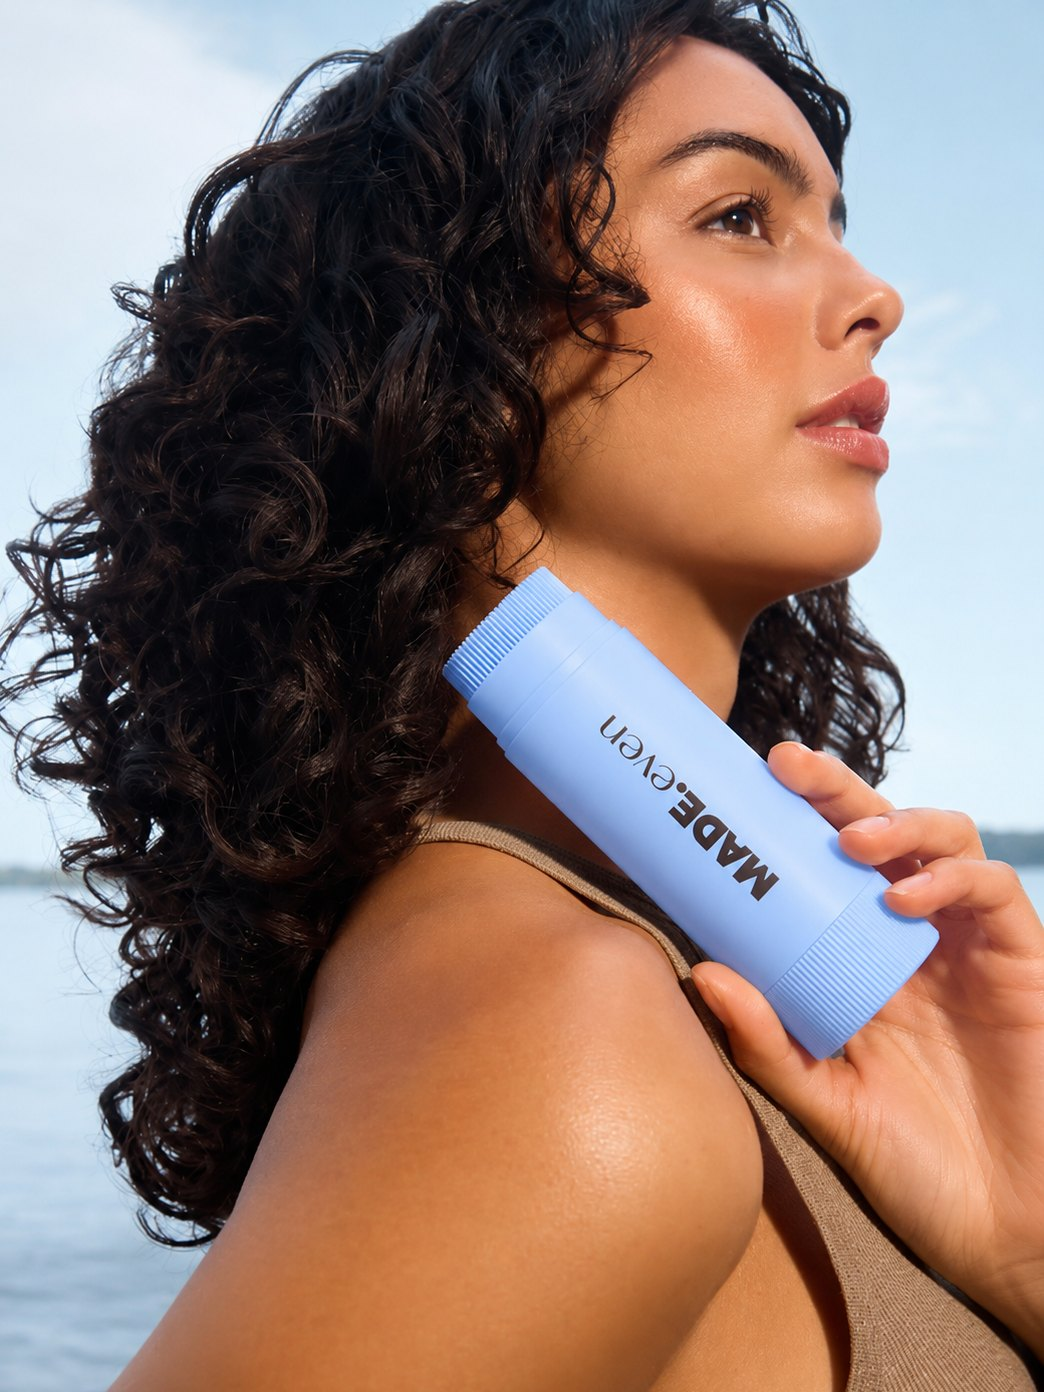
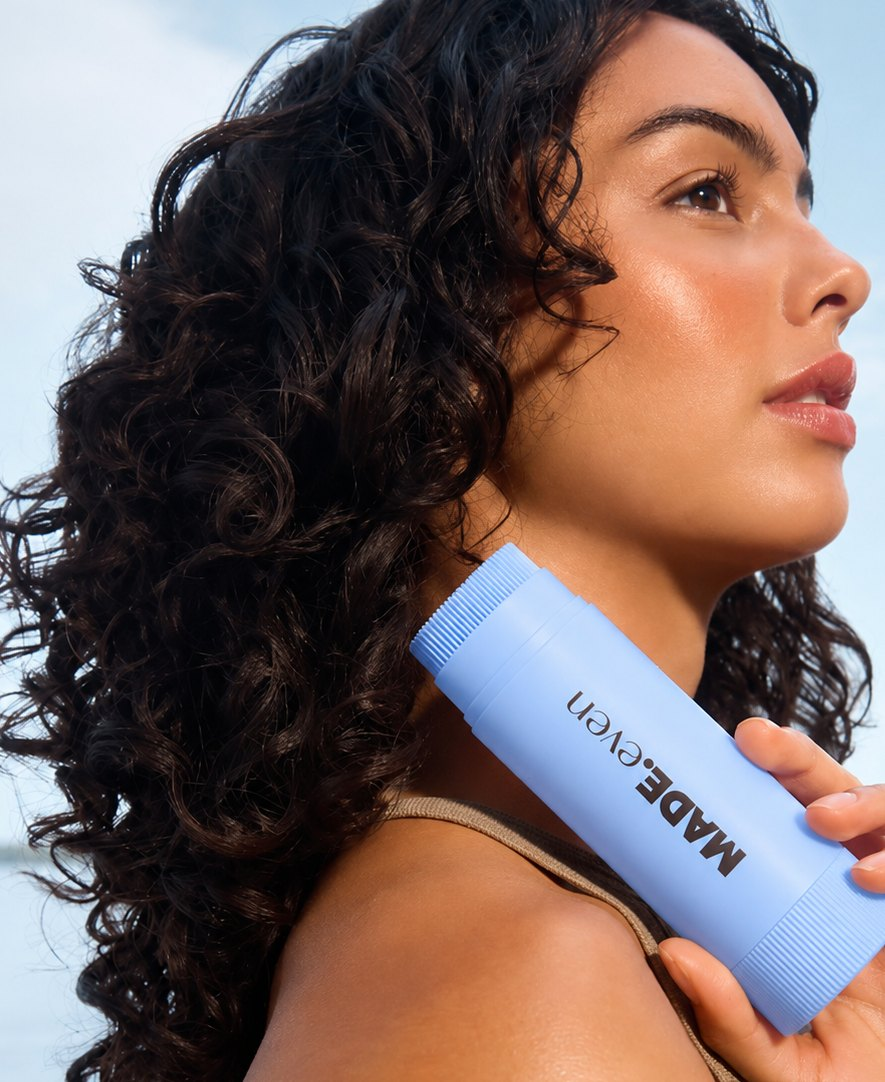
Match the shop product blocks to the design
Crops now come from the PDF's image placement rather than a guessed focus
point, and each column keeps the design's own aspect — they differ (0.74,
0.80, 0.82), so a uniform 3:4 was wrong. Type and spacing measured off the
rendered page: heading up, body down, thicker pill border, wider gaps.

diff --git a/src/app/shop/page.tsx b/src/app/shop/page.tsx
@@ -7,7 +7,9 @@ const items = [
     title: "Flyaway Balm Stick",
     accent: "bg-pink",
     // The design shrinks this one's body copy to fit the longer blurb.
-    body: "text-[1.3vw]",
+    body: "text-[1.16vw]",
+    aspect: "aspect-[0.738]",
+    size: [843, 1143],
     copy: [
       "Effortless hair, wherever you go. MADE.SLICK is a lightweight flyaway balm designed for quick, easy touch-ups on the go. Smooth down frizz, tame flyaways, and refine your look without the stiffness or residue. The compact stick makes styling simple just swipe, smooth, and go. Perfect for sleek buns, polished ponytails, clean-girl looks, or refreshing your style throughout the day.",
     ],
@@ -18,7 +20,9 @@ const items = [
     name: "fresh",
     title: "Dry Shampoo",
     accent: "bg-butter",
-    body: "text-[1.45vw]",
+    body: "text-[1.29vw]",
+    aspect: "aspect-[0.803]",
+    size: [976, 1216],
     reverse: true,
     copy: [
       "Fresh hair, no wash day required. MADE.FRESH is a lightweight dry shampoo designed to instantly refresh your roots, absorb excess oil, and bring life back to your hair between washes.",
@@ -31,7 +35,9 @@ const items = [
     name: "even",
     title: "Grey Coverage Stick",
     accent: "bg-peri",
-    body: "text-[1.45vw]",
+    body: "text-[1.29vw]",
+    aspect: "aspect-[0.818]",
+    size: [885, 1082],
     copy: [
       "A quick touch-up for those in-between moments.",
       "MADE.EVEN is a convenient grey coverage stick designed to seamlessly blend into your hair, helping disguise visible greys and grown-out roots in seconds.",
@@ -78,15 +84,15 @@ export default function Shop() {
             }`}
           >
             <div>
-              <h2 className="text-[9vw] leading-none md:text-[4.4vw]">
+              <h2 className="text-[9vw] leading-none md:text-[4.9vw]">
                 <span className="font-display">MADE.</span>
                 <span className="font-script">{item.name}</span>
               </h2>
-              <p className="mt-[1.2vw] font-body font-bold text-xl md:text-[2.15vw]">
+              <p className="mt-[1.5vw] font-body text-xl font-bold md:text-[2.15vw]">
                 {item.title}
               </p>
               <div
-                className={`mt-[1.8vw] space-y-[0.9em] font-body leading-[1.45] max-md:text-base ${item.body}`}
+                className={`mt-[2.8vw] space-y-[0.9em] font-body leading-[1.45] max-md:text-base ${item.body}`}
               >
                 {item.copy.map((para) => (
                   <p key={para.slice(0, 24)}>{para}</p>
@@ -95,11 +101,11 @@ export default function Shop() {
             </div>
 
             <div>
-              <p className="font-script text-4xl md:text-[2.87vw]">
+              <p className="font-script text-4xl md:text-[3vw]">
                 {item.tagline}
               </p>
               <button
-                className={`mt-[1.5vw] w-full rounded-full border-2 border-ink py-4 font-body font-bold uppercase tracking-[0.25em] md:border-[3px] md:py-[1.1vw] md:text-[1.35vw] ${item.accent}`}
+                className={`mt-[2.8vw] w-full rounded-full border-2 border-ink py-4 font-body font-bold uppercase tracking-[0.25em] md:border-4 md:py-[1.1vw] md:text-[1.5vw] ${item.accent}`}
                 type="button"
               >
                 Add to Cart
@@ -110,10 +116,10 @@ export default function Shop() {
           <Image
             src={`/images/shop-${item.name}.jpg`}
             alt={item.alt}
-            width={1086}
-            height={1448}
+            width={item.size[0]}
+            height={item.size[1]}
             sizes="(min-width: 768px) 44vw, 100vw"
-            className="aspect-[3/4] w-full object-cover"
+            className={`w-full object-cover ${item.aspect}`}
           />
         </section>
       ))}
